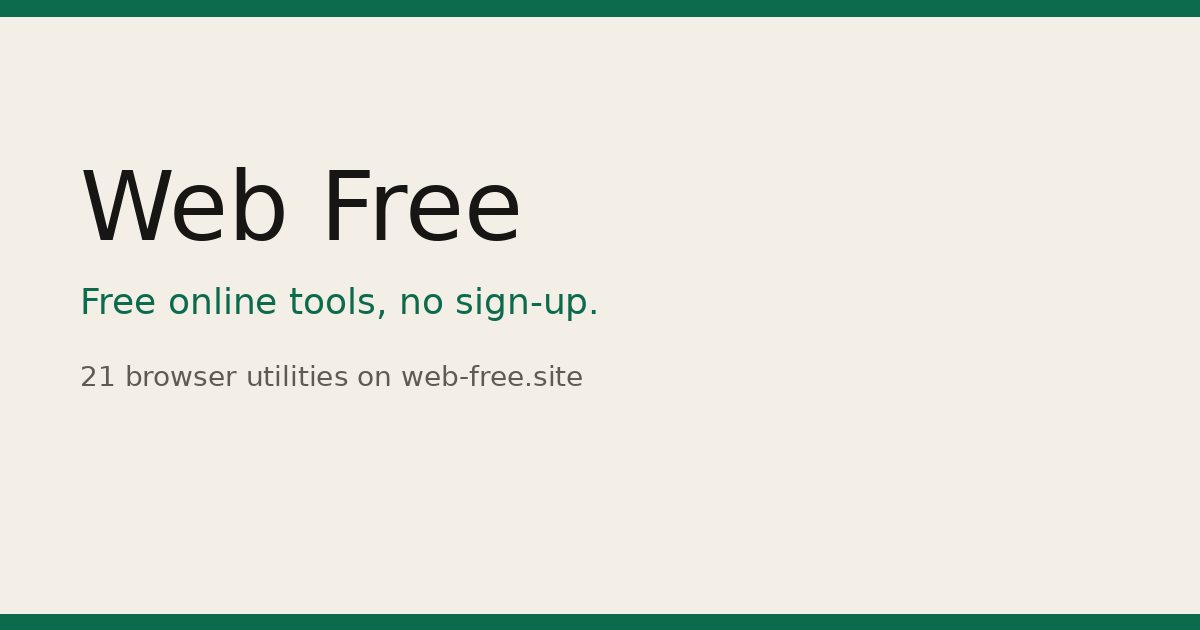
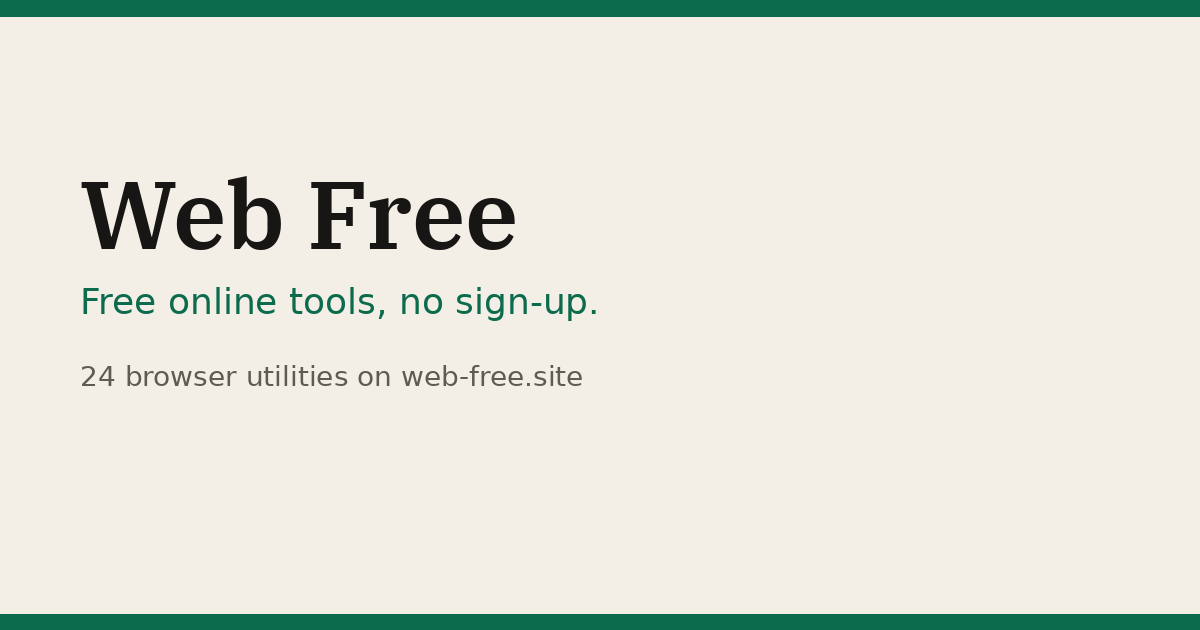
Add Free Text to Speech, Free Loan Calculator, and Free Age Calculator to the hub list.
List all three on the English and French pages and in the ItemList JSON-LD.

Changed region(s): [[0.0617, 0.2714, 0.4317, 0.3921], [0.0617, 0.573, 0.0925, 0.6032]]

diff --git a/public/fr/index.html b/public/fr/index.html
@@ -42,7 +42,7 @@
     {
       "@type": "ItemList",
       "name": "Outils en ligne gratuits",
-      "numberOfItems": 21,
+      "numberOfItems": 24,
       "itemListElement": [
         {
           "@type": "ListItem",
@@ -145,48 +145,69 @@
         {
           "@type": "ListItem",
           "position": 15,
+          "name": "Free Loan Calculator",
+          "url": "https://free-loan-calculator.web-free.site/",
+          "description": "Calculez une mensualité, un tableau d’amortissement et les économies liées aux remboursements anticipés, dans le navigateur. Export CSV et PDF. Sans inscription."
+        },
+        {
+          "@type": "ListItem",
+          "position": 16,
+          "name": "Free Age Calculator",
+          "url": "https://free-age-calculator.web-free.site/",
+          "description": "Calculez l’âge exact en années, mois et jours, comparez deux dates et obtenez un compte à rebours d’anniversaire, dans le navigateur. Sans inscription."
+        },
+        {
+          "@type": "ListItem",
+          "position": 17,
           "name": "Free AI Humanizer",
           "url": "https://free-ai-humanizer.web-free.site/",
           "description": "Réécrivez un texte généré par IA avec un ton plus naturel, dans le navigateur. Sans clé API."
         },
         {
           "@type": "ListItem",
-          "position": 16,
+          "position": 18,
           "name": "Free SEO Generator",
           "url": "https://free-seo-generator.web-free.site/",
           "description": "Générez des balises meta, un robots.txt, un sitemap XML, du JSON-LD et des balises hreflang dans le navigateur. Sans inscription."
         },
         {
           "@type": "ListItem",
-          "position": 17,
+          "position": 19,
           "name": "Free Backlink Generator",
           "url": "https://free-backlink-generator.web-free.site/",
           "description": "Construit des URL de ping et d’analyse, plus une checklist d’annuaires, dans le navigateur. Outil d’aide — pas une garantie de classement."
         },
         {
           "@type": "ListItem",
-          "position": 18,
+          "position": 20,
           "name": "Free JSON Formatter",
           "url": "https://free-json-formatter.web-free.site/",
           "description": "Formatez, validez et minifiez du JSON dans le navigateur. Sans inscription ; les données restent sur votre appareil."
         },
         {
           "@type": "ListItem",
-          "position": 19,
+          "position": 21,
+          "name": "Free Text to Speech",
+          "url": "https://free-text-to-speech.web-free.site/",
+          "description": "Convertissez du texte en voix naturelle dans le navigateur avec Piper. Voix anglaises et françaises, réglage de la vitesse et téléchargement WAV. Sans clé API."
+        },
+        {
+          "@type": "ListItem",
+          "position": 22,
           "name": "Free Fake Address Generator",
           "url": "https://free-fake-address-generator.web-free.site/",
           "description": "Générez des adresses de test aléatoires (rue, ville, région, code postal, téléphone) pour les États-Unis, le Royaume-Uni et le Canada. Côté client, sans inscription."
         },
         {
           "@type": "ListItem",
-          "position": 20,
+          "position": 23,
           "name": "Free Fake Name Generator",
           "url": "https://free-fake-name-generator.web-free.site/",
           "description": "Générez des noms, e-mails, téléphones, adresses et métiers fictifs pour vos tests. Export CSV ou JSON. Dans le navigateur, sans inscription."
         },
         {
           "@type": "ListItem",
-          "position": 21,
+          "position": 24,
           "name": "Free Password Generator",
           "url": "https://free-password-generator.web-free.site/",
           "description": "Créez des mots de passe robustes, des codes PIN et des phrases secrètes dans le navigateur. Sans inscription ; les secrets ne quittent pas votre appareil."
@@ -207,7 +228,7 @@
   </header>
   <main id="main">
     <section class="hero">
-      <p class="kicker">21 outils gratuits</p>
+      <p class="kicker">24 outils gratuits</p>
       <h1>Des outils en ligne gratuits, sans inscription.</h1>
       <p class="lede">Web Free rassemble des utilitaires gratuits qui s’utilisent dans le navigateur. Chaque outil vit sur son propre sous-domaine de web-free.site.</p>
     </section>
@@ -293,6 +314,14 @@
         <a href="https://free-unit-converter.web-free.site/">Free Unit Converter</a>
         <span class="desc">Convertissez longueurs, masses, températures, volumes et 13 autres catégories — plus de 200 unités — dans le navigateur. Sans inscription.</span>
       </li>
+      <li class="tool" data-search="Free Loan Calculator Calculez une mensualité, un tableau d’amortissement et les économies liées aux remboursements anticipés, dans le navigateur. Export CSV et PDF. Sans inscription.">
+        <a href="https://free-loan-calculator.web-free.site/">Free Loan Calculator</a>
+        <span class="desc">Calculez une mensualité, un tableau d’amortissement et les économies liées aux remboursements anticipés, dans le navigateur. Export CSV et PDF. Sans inscription.</span>
+      </li>
+      <li class="tool" data-search="Free Age Calculator Calculez l’âge exact en années, mois et jours, comparez deux dates et obtenez un compte à rebours d’anniversaire, dans le navigateur. Sans inscription.">
+        <a href="https://free-age-calculator.web-free.site/">Free Age Calculator</a>
+        <span class="desc">Calculez l’âge exact en années, mois et jours, comparez deux dates et obtenez un compte à rebours d’anniversaire, dans le navigateur. Sans inscription.</span>
+      </li>
     </ul>
   </section>
   <section class="category" id="seo" aria-labelledby="h-seo">
@@ -313,6 +342,10 @@
       <li class="tool" data-search="Free JSON Formatter Formatez, validez et minifiez du JSON dans le navigateur. Sans inscription ; les données restent sur votre appareil.">
         <a href="https://free-json-formatter.web-free.site/">Free JSON Formatter</a>
         <span class="desc">Formatez, validez et minifiez du JSON dans le navigateur. Sans inscription ; les données restent sur votre appareil.</span>
+      </li>
+      <li class="tool" data-search="Free Text to Speech Convertissez du texte en voix naturelle dans le navigateur avec Piper. Voix anglaises et françaises, réglage de la vitesse et téléchargement WAV. Sans clé API.">
+        <a href="https://free-text-to-speech.web-free.site/">Free Text to Speech</a>
+        <span class="desc">Convertissez du texte en voix naturelle dans le navigateur avec Piper. Voix anglaises et françaises, réglage de la vitesse et téléchargement WAV. Sans clé API.</span>
       </li>
     </ul>
   </section>

diff --git a/public/index.html b/public/index.html
@@ -42,7 +42,7 @@
     {
       "@type": "ItemList",
       "name": "Free online tools",
-      "numberOfItems": 21,
+      "numberOfItems": 24,
       "itemListElement": [
         {
           "@type": "ListItem",
@@ -145,48 +145,69 @@
         {
           "@type": "ListItem",
           "position": 15,
+          "name": "Free Loan Calculator",
+          "url": "https://free-loan-calculator.web-free.site/",
+          "description": "Calculate a monthly loan payment, amortization schedule, and extra-payment savings in your browser. CSV and PDF export. No sign-up."
+        },
+        {
+          "@type": "ListItem",
+          "position": 16,
+          "name": "Free Age Calculator",
+          "url": "https://free-age-calculator.web-free.site/",
+          "description": "Calculate exact age in years, months, and days, compare two dates, and get a birthday countdown in your browser. No sign-up."
+        },
+        {
+          "@type": "ListItem",
+          "position": 17,
           "name": "Free AI Humanizer",
           "url": "https://free-ai-humanizer.web-free.site/",
           "description": "Rewrite AI-generated text with a more natural tone in your browser. No API key."
         },
         {
           "@type": "ListItem",
-          "position": 16,
+          "position": 18,
           "name": "Free SEO Generator",
           "url": "https://free-seo-generator.web-free.site/",
           "description": "Generate meta tags, robots.txt, XML sitemaps, JSON-LD, and hreflang tags in the browser. No sign-up."
         },
         {
           "@type": "ListItem",
-          "position": 17,
+          "position": 19,
           "name": "Free Backlink Generator",
           "url": "https://free-backlink-generator.web-free.site/",
           "description": "Builds ping and analysis URLs and a directory checklist in the browser. A helper tool — not a ranking guarantee."
         },
         {
           "@type": "ListItem",
-          "position": 18,
+          "position": 20,
           "name": "Free JSON Formatter",
           "url": "https://free-json-formatter.web-free.site/",
           "description": "Format, validate, and minify JSON in your browser. No sign-up; data stays on your device."
         },
         {
           "@type": "ListItem",
-          "position": 19,
+          "position": 21,
+          "name": "Free Text to Speech",
+          "url": "https://free-text-to-speech.web-free.site/",
+          "description": "Convert text to natural speech in your browser with Piper. English and French voices, speed control, and WAV download. No API key."
+        },
+        {
+          "@type": "ListItem",
+          "position": 22,
           "name": "Free Fake Address Generator",
           "url": "https://free-fake-address-generator.web-free.site/",
           "description": "Generate random test addresses (street, city, state, ZIP, phone) for the US, UK, and Canada. Client-side, no sign-up."
         },
         {
           "@type": "ListItem",
-          "position": 20,
+          "position": 23,
           "name": "Free Fake Name Generator",
           "url": "https://free-fake-name-generator.web-free.site/",
           "description": "Generate fake names, emails, phones, addresses, and jobs for testing. Export CSV or JSON. Browser-only, no sign-up."
         },
         {
           "@type": "ListItem",
-          "position": 21,
+          "position": 24,
           "name": "Free Password Generator",
           "url": "https://free-password-generator.web-free.site/",
           "description": "Create strong passwords, PINs, and passphrases in your browser. No sign-up; secrets never leave your device."
@@ -207,7 +228,7 @@
   </header>
   <main id="main">
     <section class="hero">
-      <p class="kicker">21 free tools</p>
+      <p class="kicker">24 free tools</p>
       <h1>Free online tools, no sign-up.</h1>
       <p class="lede">Web Free is a set of free utilities that run in your browser. Each tool lives on its own subdomain of web-free.site.</p>
     </section>
@@ -293,6 +314,14 @@
         <a href="https://free-unit-converter.web-free.site/">Free Unit Converter</a>
         <span class="desc">Convert length, mass, temperature, volume, and 13 other categories — 200+ units — in your browser. No sign-up.</span>
       </li>
+      <li class="tool" data-search="Free Loan Calculator Calculate a monthly loan payment, amortization schedule, and extra-payment savings in your browser. CSV and PDF export. No sign-up.">
+        <a href="https://free-loan-calculator.web-free.site/">Free Loan Calculator</a>
+        <span class="desc">Calculate a monthly loan payment, amortization schedule, and extra-payment savings in your browser. CSV and PDF export. No sign-up.</span>
+      </li>
+      <li class="tool" data-search="Free Age Calculator Calculate exact age in years, months, and days, compare two dates, and get a birthday countdown in your browser. No sign-up.">
+        <a href="https://free-age-calculator.web-free.site/">Free Age Calculator</a>
+        <span class="desc">Calculate exact age in years, months, and days, compare two dates, and get a birthday countdown in your browser. No sign-up.</span>
+      </li>
     </ul>
   </section>
   <section class="category" id="seo" aria-labelledby="h-seo">
@@ -313,6 +342,10 @@
       <li class="tool" data-search="Free JSON Formatter Format, validate, and minify JSON in your browser. No sign-up; data stays on your device.">
         <a href="https://free-json-formatter.web-free.site/">Free JSON Formatter</a>
         <span class="desc">Format, validate, and minify JSON in your browser. No sign-up; data stays on your device.</span>
+      </li>
+      <li class="tool" data-search="Free Text to Speech Convert text to natural speech in your browser with Piper. English and French voices, speed control, and WAV download. No API key.">
+        <a href="https://free-text-to-speech.web-free.site/">Free Text to Speech</a>
+        <span class="desc">Convert text to natural speech in your browser with Piper. English and French voices, speed control, and WAV download. No API key.</span>
       </li>
     </ul>
   </section>
